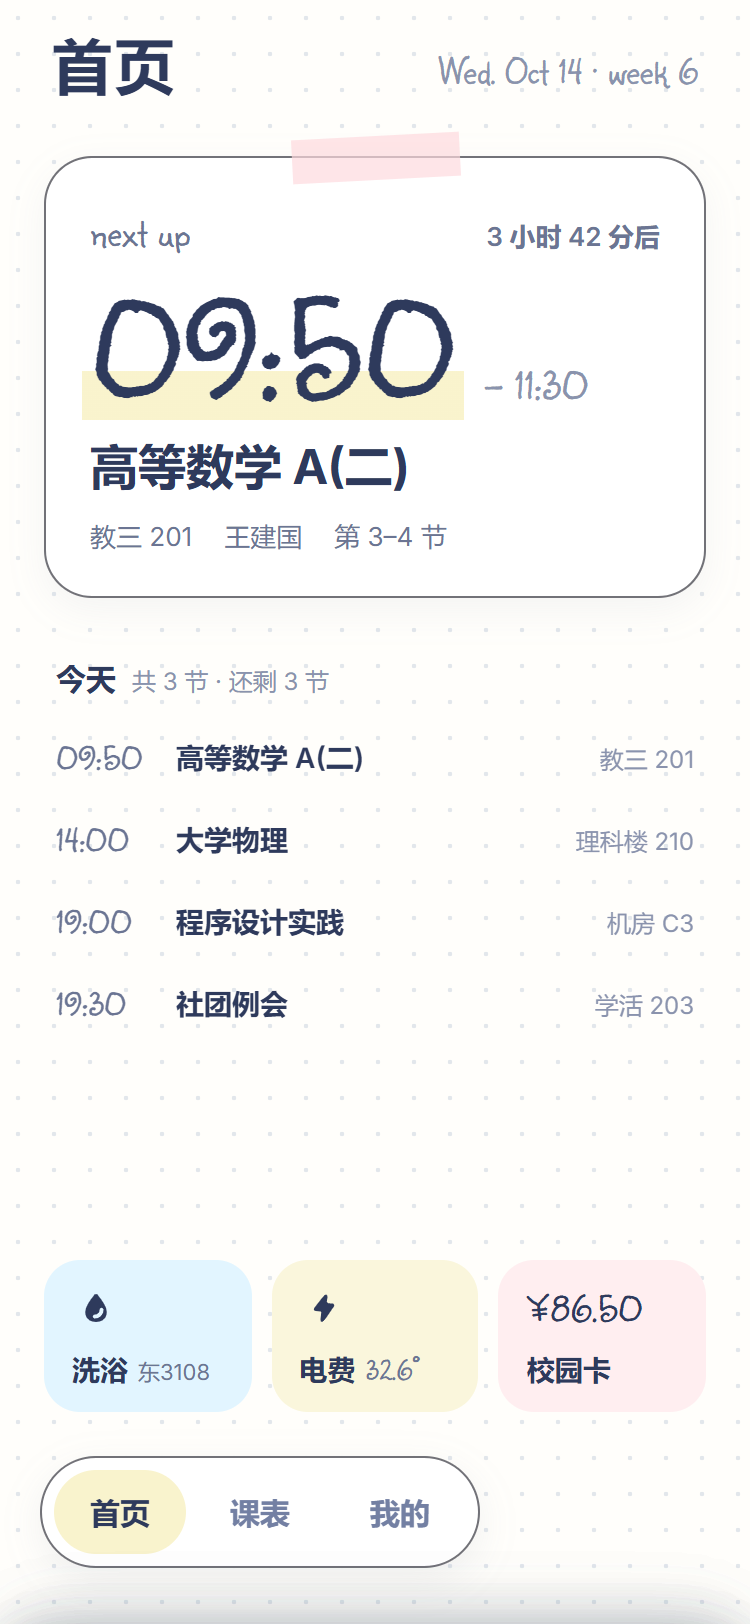
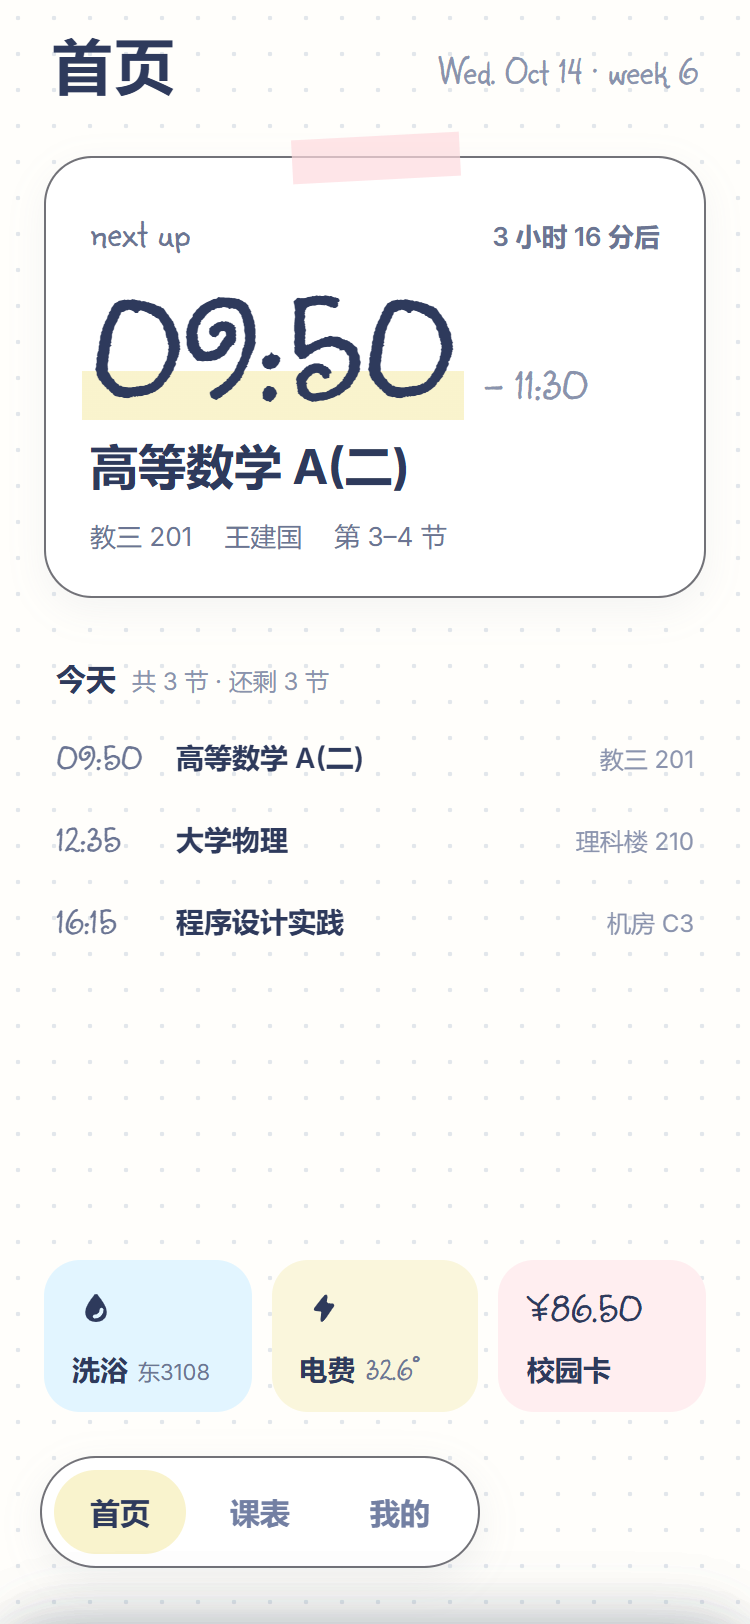
docs: README 截图换成首页、课表、我的

diff --git a/README.md b/README.md
@@ -16,10 +16,9 @@
 
 <img src="screenshots/home.png" width="200" alt="首页" />
 <img src="screenshots/schedule.png" width="200" alt="课表" />
-<img src="screenshots/course.png" width="200" alt="添加课程" />
-<img src="screenshots/import.png" width="200" alt="导入课表" />
+<img src="screenshots/me.png" width="200" alt="我的" />
 
-<sub>截图里的课程、名字、宿舍都是演示数据</sub>
+<sub>截图里的课程和名字都是演示数据</sub>
 
 </div>
 
